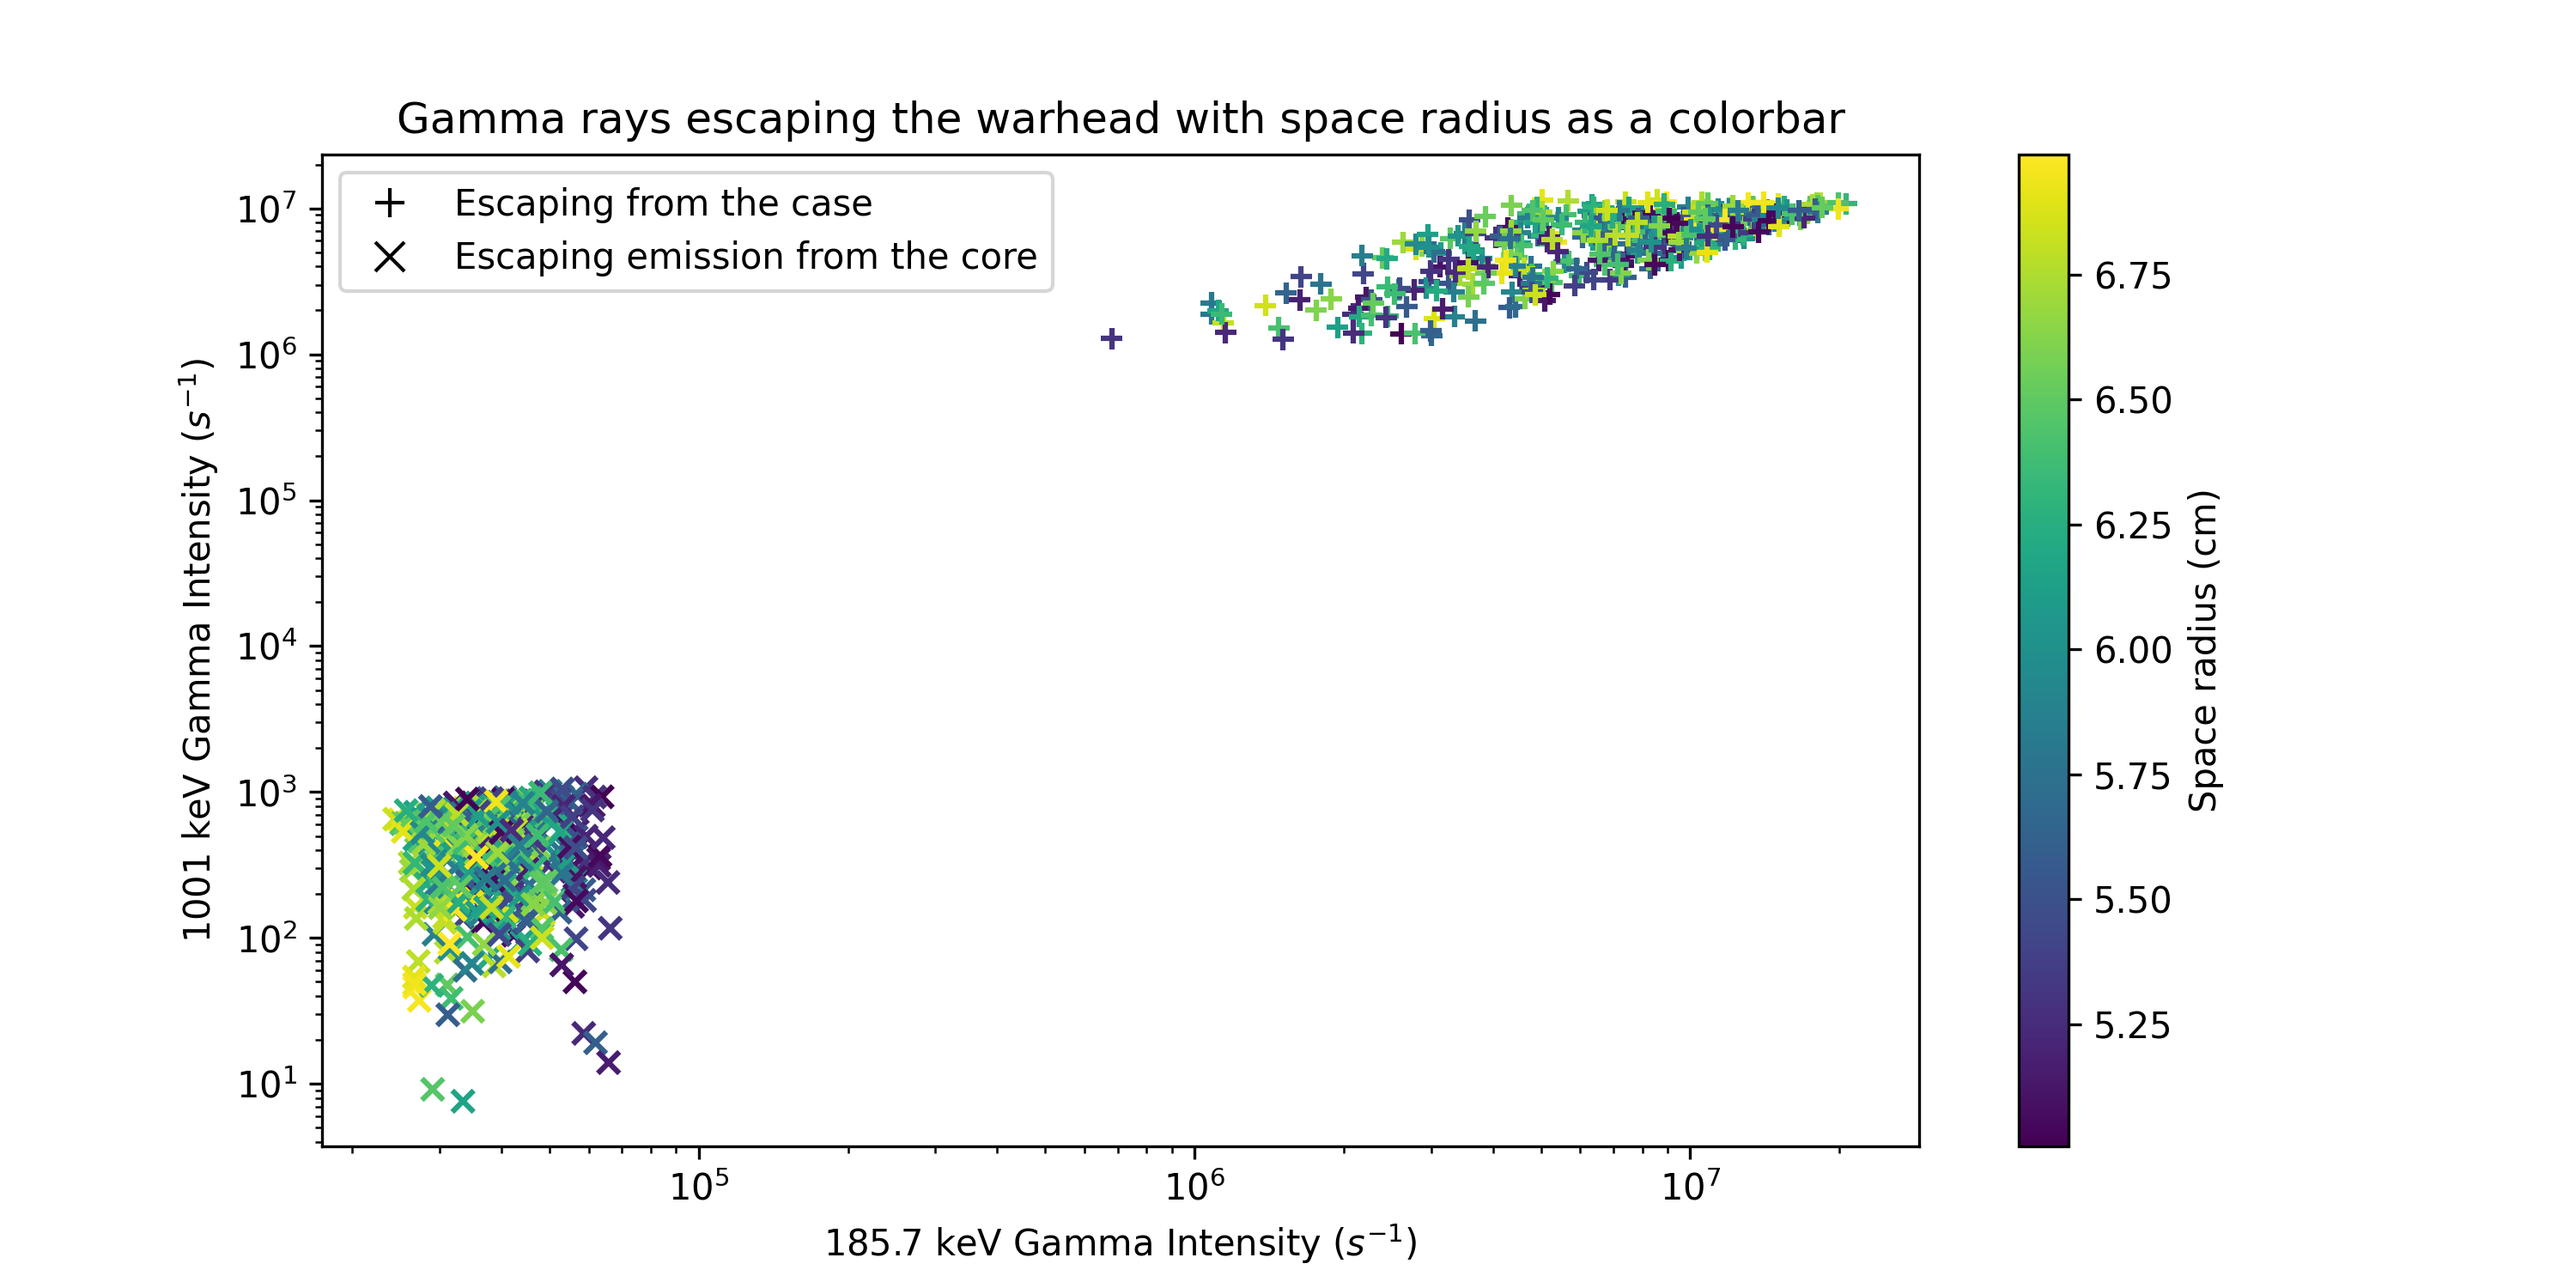
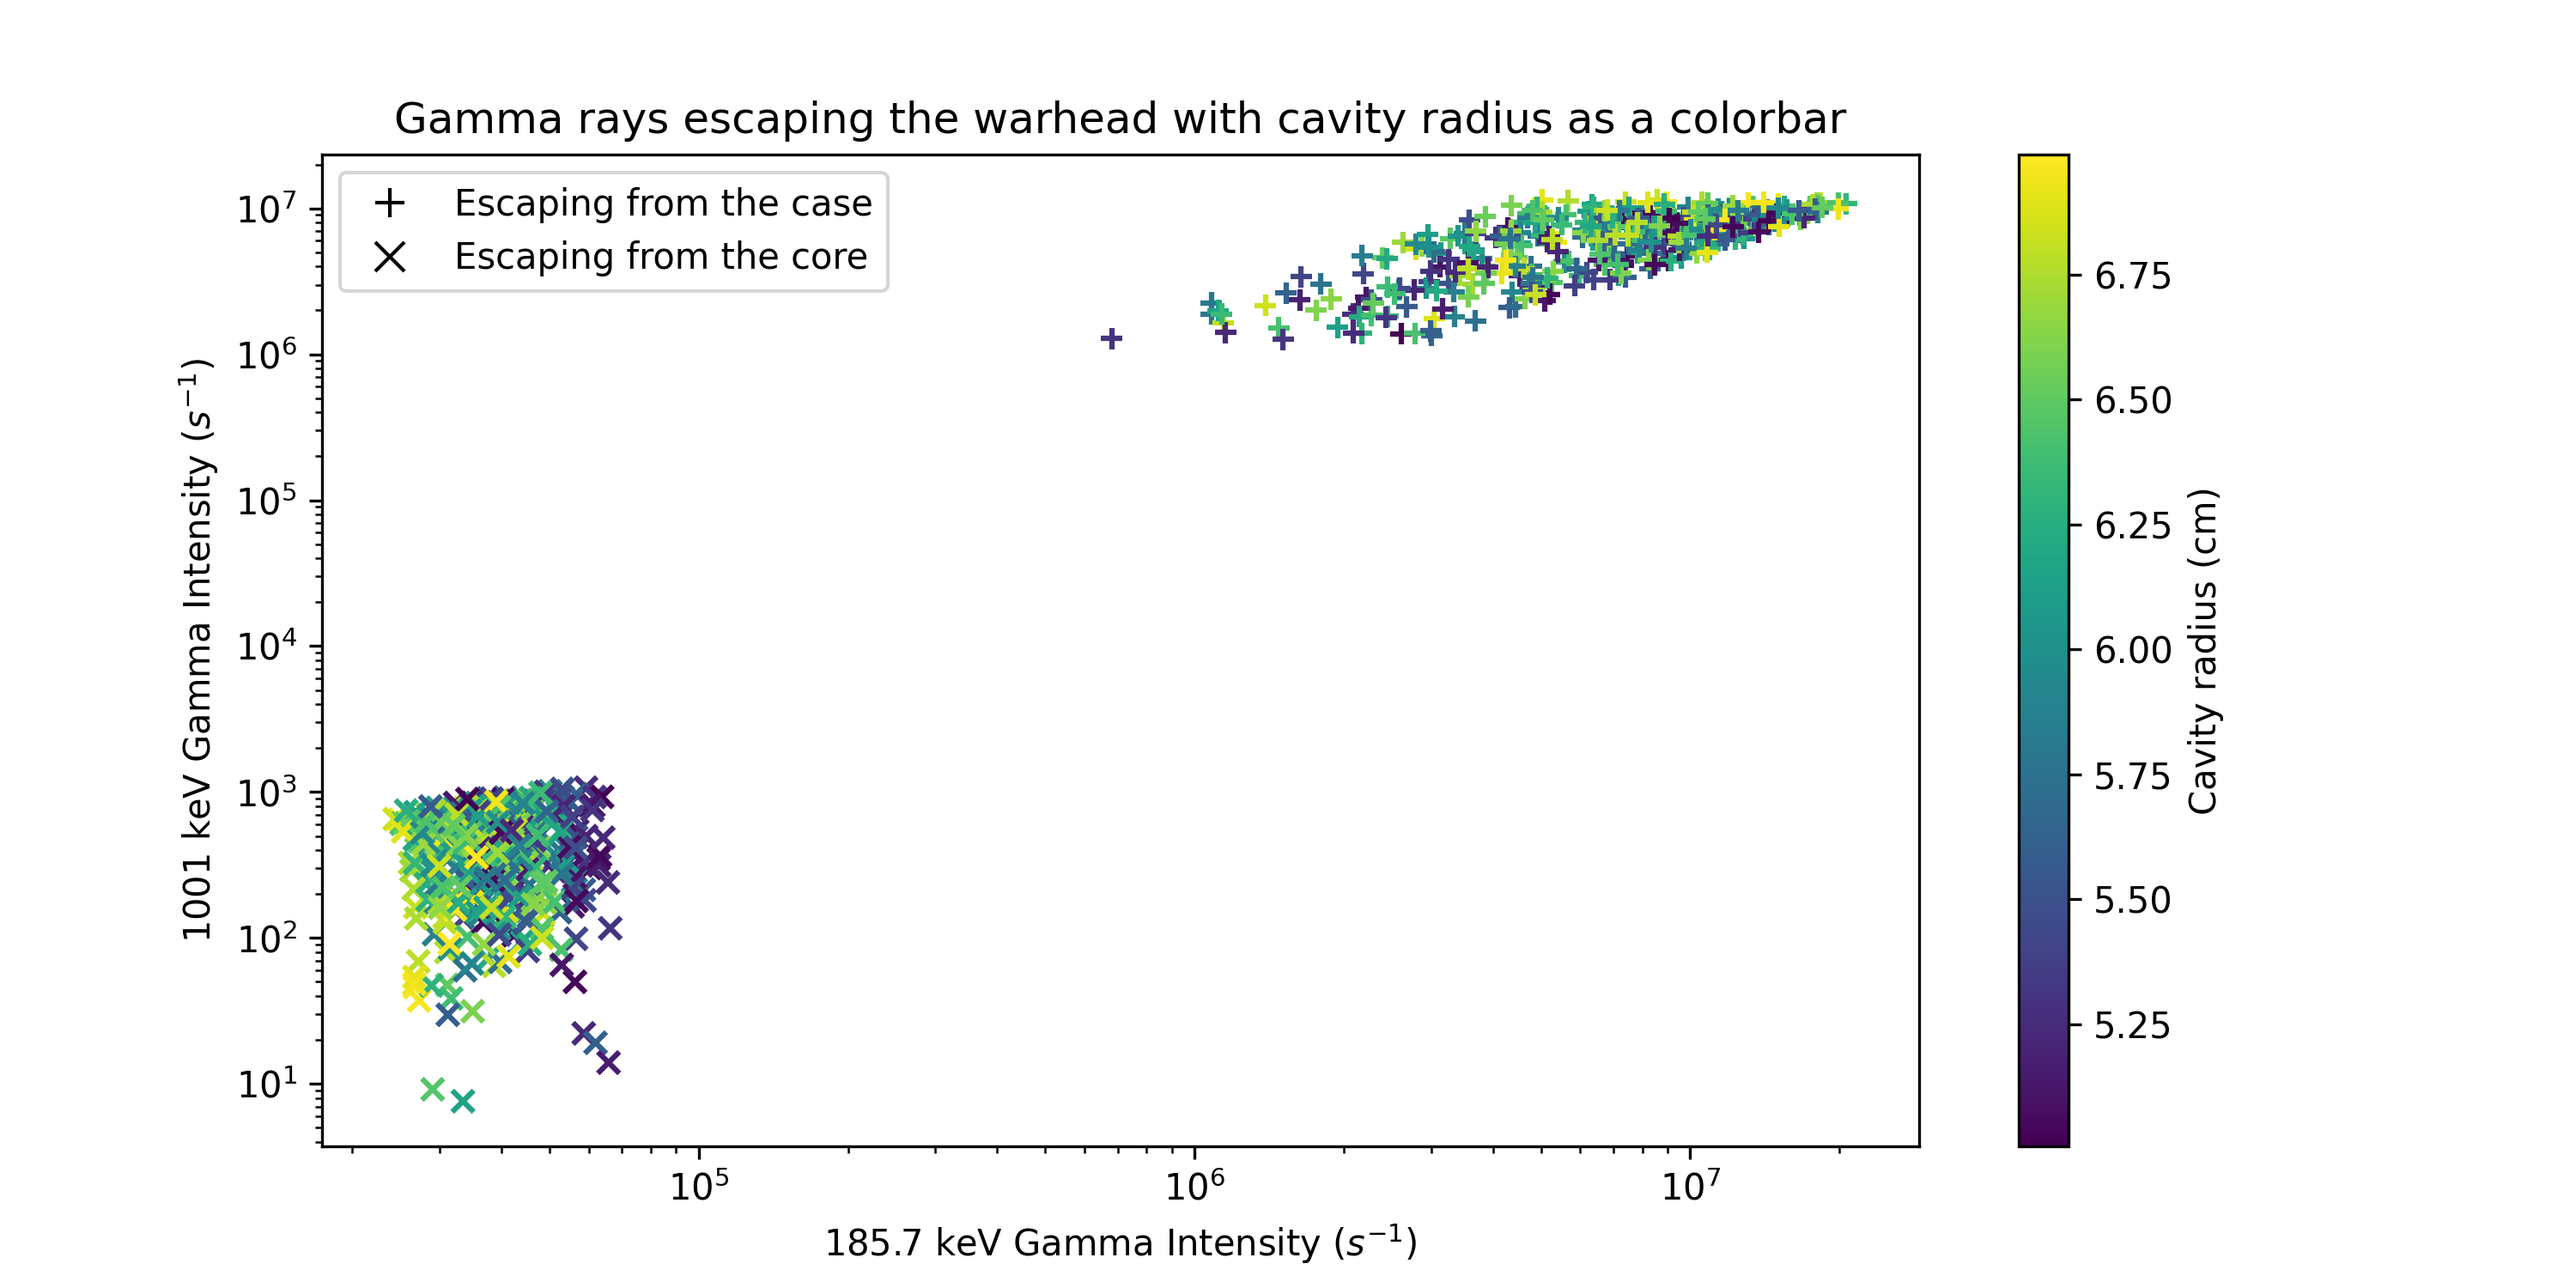
One more update

diff --git a/plot.py b/plot.py
@@ -147,19 +147,19 @@ def core_case_plot(metadata):
 
     plt.figure(figsize=(10, 5))
     ax = plt.gca()
-    plt.title("Gamma rays escaping the warhead with space radius as a colorbar")
+    plt.title("Gamma rays escaping the warhead with cavity radius as a colorbar")
 
     plt.scatter(photon_intensity_case_185, photon_intensity_case_1001, marker='+', label="Detected emission from the case", c=space_thicknesses, alpha=alpha_values)
     sc = plt.scatter(photon_intensity_core_185, photon_intensity_core_1001, marker='x', label="Detected emission from the core", c=space_thicknesses, alpha=alpha_values)
 
     # Add colorbar to show mapping
-    plt.colorbar(sc, label="Space radius (cm)")
+    plt.colorbar(sc, label="Cavity radius (cm)")
 
     # Create custom legend handles (force alpha=1)
     legend_elements = [
         Line2D([0], [0], marker='+', linestyle='None', label='Escaping from the case',
             color='black', markersize=8, alpha=1.0),
-        Line2D([0], [0], marker='x', linestyle='None', label='Escaping emission from the core',
+        Line2D([0], [0], marker='x', linestyle='None', label='Escaping from the core',
             color='black', markersize=8, alpha=1.0)
     ]
 
